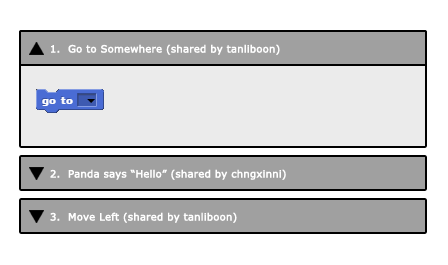
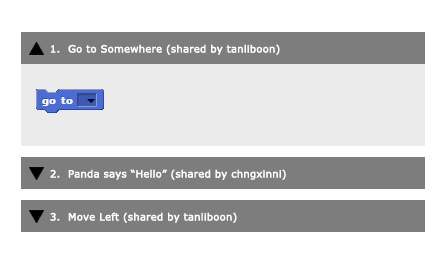
Updated images.

diff --git a/gui.js b/gui.js
@@ -1454,17 +1454,21 @@ IDE_Morph.prototype.createShareBoxBar = function () {
             if (!myself.shareBox) {
                 myself.createShareBox();
                 myself.shareAssetsBox.hide();
+                myself.shareAssetsBox.destroy();
             } else {
                 myself.shareBox.show();
                 myself.shareAssetsBox.hide();
+                myself.shareAssetsBox.destroy();
             }
         } else {
             if (!myself.shareAssetsBox) {
                 myself.createShareAssetsBox();
                 myself.shareBox.hide();
+                myself.shareBox.destroy();
             } else {
                 myself.shareAssetsBox.show();
                 myself.shareBox.hide();
+                myself.shareBox.destroy();
             }
         }
         myself.fixLayout('tabEditor');
@@ -1648,9 +1652,10 @@ IDE_Morph.prototype.createShareBox = function () {
 
     this.shareBox = new FrameMorph();
     this.shareBox.color = this.groupColor;
+    this.shareBox.texture = 'scriptsPaneTexture.gif';
     this.shareBox.acceptsDrops = true;
     this.add(this.shareBox);
-    scripts.texture = IDE_Morph.prototype.scriptsPaneTexture;
+    //this.shareBox.texture = IDE_Morph.prototype.scriptsPaneTexture;
 
     this.shareBox.reactToDropOf = function (droppedMorph) {
         if (droppedMorph instanceof BlockMorph) {
